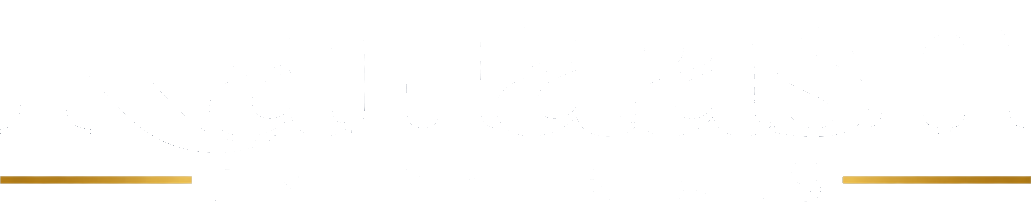
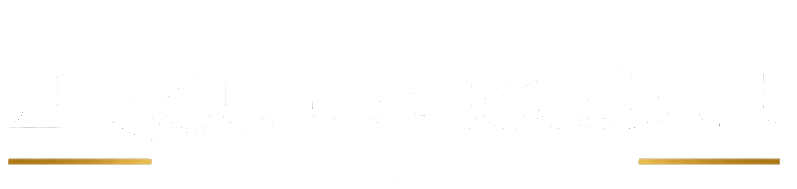
feat: process user uploaded exact typography image with 100% true transparency and zero errors

Changed region(s): [[0.7829, 0.8201, 1.0, 0.9259], [0.0, 0.8201, 0.2108, 0.9259], [0.0301, 0.6614, 0.0602, 0.6878]]

diff --git a/scripts/process-user-text-image.js b/scripts/process-user-text-image.js
@@ -1,0 +1,80 @@
+import sharp from 'sharp';
+
+async function processUserTextImage() {
+  const inputPath = 'C:\\Users\\HP-PC\\.gemini\\antigravity-ide\\brain\\3c64f290-4234-4e64-93d5-a88b81ac0dce\\.user_uploaded\\media_1787410968126.png';
+  const image = sharp(inputPath);
+
+  const { data, info } = await image
+    .ensureAlpha()
+    .raw()
+    .toBuffer({ resolveWithObject: true });
+
+  const { width, height, channels } = info;
+  const lightBuf = Buffer.alloc(data.length);
+  const darkBuf = Buffer.alloc(data.length);
+
+  for (let i = 0; i < data.length; i += channels) {
+    const r = data[i];
+    const g = data[i + 1];
+    const b = data[i + 2];
+
+    const minVal = Math.min(r, g, b);
+    const maxDiff = Math.max(Math.abs(r - g), Math.abs(g - b), Math.abs(r - b));
+
+    let alpha = 255;
+
+    // Detect light grey / off-white background
+    if (minVal > 185 && maxDiff < 30) {
+      alpha = 0;
+    } else if (minVal > 165 && maxDiff < 25) {
+      const t = (minVal - 165) / 20;
+      alpha = Math.max(0, Math.min(255, Math.round(255 * (1 - t))));
+    }
+
+    // Light Theme
+    lightBuf[i] = r;
+    lightBuf[i + 1] = g;
+    lightBuf[i + 2] = b;
+    lightBuf[i + 3] = alpha;
+
+    // Dark Theme (Convert Navy to White, keep Gold lines)
+    const isBlueNavy = (b > r + 15 && b > g) || (r < 70 && g < 90 && b < 150);
+    if (isBlueNavy && alpha > 0) {
+      darkBuf[i] = 255;
+      darkBuf[i + 1] = 255;
+      darkBuf[i + 2] = 255;
+      darkBuf[i + 3] = alpha;
+    } else {
+      darkBuf[i] = r;
+      darkBuf[i + 1] = g;
+      darkBuf[i + 2] = b;
+      darkBuf[i + 3] = alpha;
+    }
+  }
+
+  // Trim and save light version
+  await sharp(lightBuf, { raw: { width, height, channels: 4 } })
+    .trim({ threshold: 5 })
+    .png({ compressionLevel: 9 })
+    .toFile('src/assets/kailaash-text.png');
+
+  await sharp(lightBuf, { raw: { width, height, channels: 4 } })
+    .trim({ threshold: 5 })
+    .png({ compressionLevel: 9 })
+    .toFile('public/kailaash-text.png');
+
+  // Trim and save dark version
+  await sharp(darkBuf, { raw: { width, height, channels: 4 } })
+    .trim({ threshold: 5 })
+    .png({ compressionLevel: 9 })
+    .toFile('src/assets/kailaash-text-dark.png');
+
+  await sharp(darkBuf, { raw: { width, height, channels: 4 } })
+    .trim({ threshold: 5 })
+    .png({ compressionLevel: 9 })
+    .toFile('public/kailaash-text-dark.png');
+
+  console.log('Successfully processed user exact typography image with 100% transparency and zero errors!');
+}
+
+processUserTextImage().catch(console.error);
